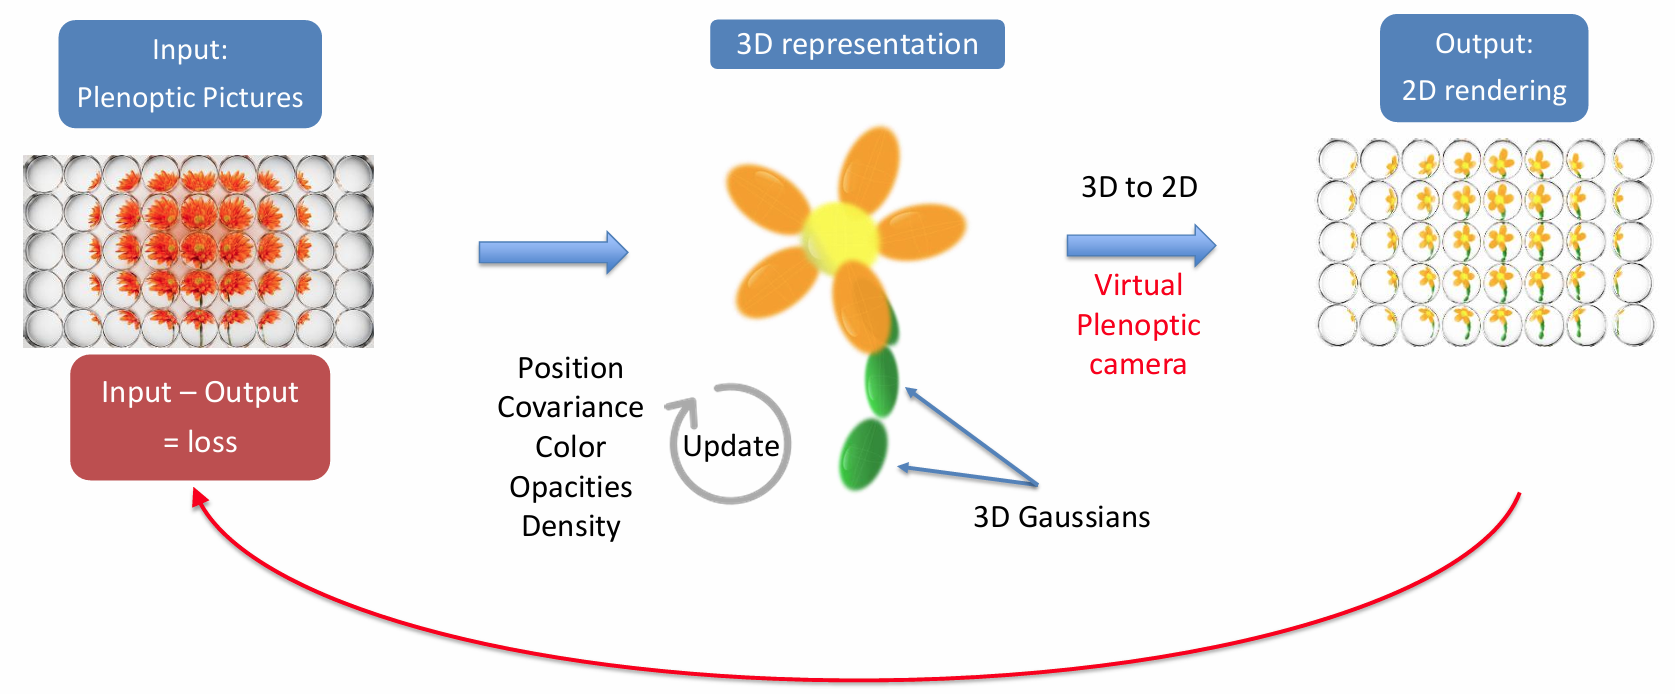
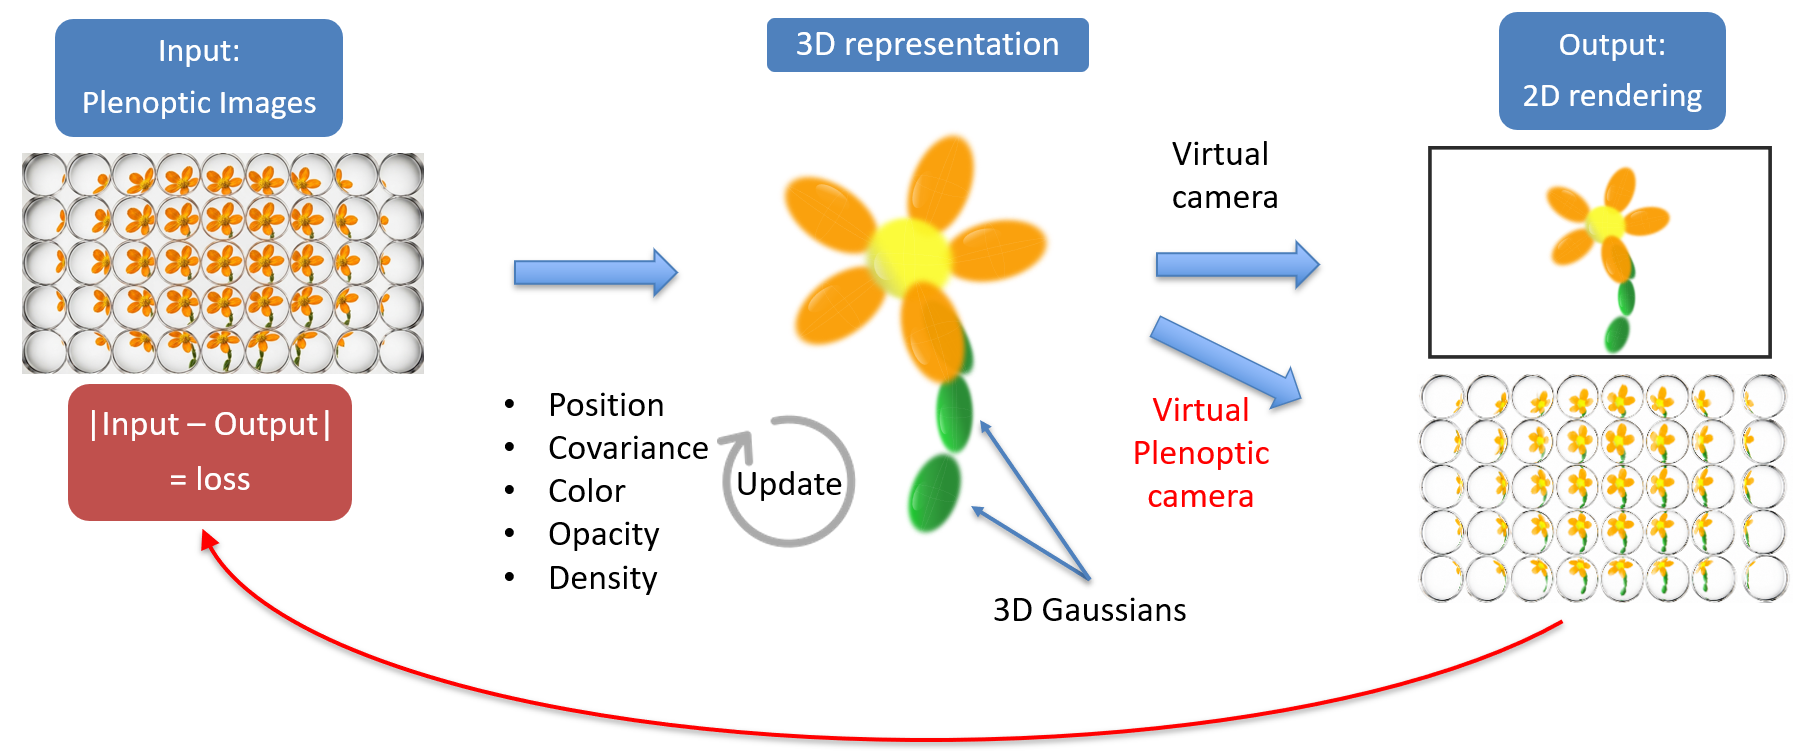
add missing parts and images

diff --git a/index.html b/index.html
@@ -420,9 +420,9 @@ notably with a single input image.
           <div class="column is-four-fifths">
             <p style="text-align: left; margin-bottom: 1cm;">
                 <br>
-                <b style="font-size: 15pt!important;">1. Plenoptic projection model</b>
+                <b style="font-size: 15pt!important;">Training Pipeline</b>
                 <br>
-                We derive a differentiable plenoptic projection model that maps 3D Gaussians through both the main lens and the micro-lens array.
+                We implemented a virtual plenoptic camera in the 3DGS framework to train directly on raw plenoptic images.
             </p>
             <img src="static/images/pipelineplenoGS.png" alt="PlenoGS pipeline" loading="lazy"/>
           </div>
@@ -435,7 +435,190 @@ notably with a single input image.
   <div class="hero-body">
     <div class="container">
         <h2 class="title is-3" style="text-align: center;">Implementation of Differentiable Rendering</h2>
-        
+        <div class="columns is-centered has-text-centered is-multiline">
+          <div class="column is-full">
+            <p style="text-align: left; margin-bottom: 1cm;">
+                <br>
+                <b style="font-size: 15pt!important;">1. Plenoptic projection model</b>
+                <br>
+                We derive a differentiable plenoptic projection model that maps 3D Gaussians through both the main lens and the micro-lens array.
+            </p>
+            <img src="static/images/projection_gaussian.png" alt="projection_model" loading="lazy"/>
+          </div>
+          <div class="column is-full">
+            <p style="text-align: left; margin-bottom: 1cm;">
+                <br>
+                <b style="font-size: 15pt!important;">2. Mapping Gaussians to Microlenses</b>
+                <br>
+                Microlenses array can contain thousands of microlenses, making it computationally expensive to compute the contribution of each Gaussian to every microlens.
+                <br>
+                To address this, we introduce a mapping strategy that efficiently determines in which microlenses each Gaussian is projected.
+                <br>
+                We find the closest microlens to the virtual Gaussian projected through the main lens, and then we consider a local neighborhood of microlenses around this closest microlens to compute the contributions of the Gaussian.
+              </p>
+            <img src="static/images/closest_microlens3D.png" alt="projection_model" loading="lazy"/>
+          </div>
+          <div class="column is-full">
+            <p style="text-align: left; margin-bottom: 1cm;">
+                <br>
+                <b style="font-size: 15pt!important;">3. Practical implementation</b>
+                <br>
+                Our method improves the reconstruction of dense scene structure and fine geometric details compared to standard pinhole-based baselines, especially when only a single plenoptic acquisition is available. The following examples illustrate how the raw plenoptic signal is exploited to recover sharper, more consistent novel views.
+            </p>
+            <div class="columns is-centered is-variable is-4">
+              <div class="column is-3">
+                <img src="static/images/scheme_hex.png" alt="PlenoGS vs Gaussian Splatting result 1" loading="lazy" style="width: 100%; height: auto; border-radius: 8px;"/>
+              </div>
+              <div class="column is-3">
+                <img src="static/images/hex_r2.png" alt="PlenoGS vs novel view synthesis result 2" loading="lazy" style="width: 100%; height: auto; border-radius: 8px;"/>
+              </div>
+              <div class="column is-3">
+                <img src="static/images/hexr3.png" alt="Existing novel view synthesis comparison 3" loading="lazy" style="width: 100%; height: auto; border-radius: 8px;"/>
+              </div>
+              <div class="column is-3">
+                <img src="static/images/hexr3masked.png" alt="Existing novel view synthesis comparison 4" loading="lazy" style="width: 100%; height: auto; border-radius: 8px;"/>
+              </div>
+            </div>
+          </div>
+        </div>
+    </div>
+  </div>
+</section>
+
+<section class="section">
+  <div class="container is-max-desktop">
+    <h2 class="title is-3" style="text-align: center;">Metrics</h2>
+    <div class="columns is-variable is-5 is-multiline">
+      <div class="column is-12-mobile is-6-desktop">
+        <div class="content" style="overflow-x: auto;">
+          <table class="table is-narrow is-fullwidth is-striped is-hoverable" style="margin: 0 auto;">
+            <caption style="caption-side: top; text-align: center; font-weight: 600; margin-bottom: 0.75rem;">
+              Training metrics for varying $R$ values on the Fujita dataset.
+            </caption>
+            <thead>
+              <tr>
+                <th><strong>R</strong></th>
+                <th><strong>PSNR</strong></th>
+                <th><strong>SSIM</strong></th>
+                <th><strong>LPIPS</strong></th>
+                <th><strong>#Gaussians</strong></th>
+                <th><strong>VRAM</strong></th>
+                <th><strong>Time</strong></th>
+              </tr>
+            </thead>
+            <tbody>
+              <tr>
+                <td>1</td>
+                <td>18.549</td>
+                <td>0.482</td>
+                <td>0.181</td>
+                <td>3,871,935</td>
+                <td>2.86 GB</td>
+                <td>5m 32s</td>
+              </tr>
+              <tr>
+                <td>2</td>
+                <td>20.214</td>
+                <td>0.565</td>
+                <td>0.153</td>
+                <td>630,822</td>
+                <td>1.86 GB</td>
+                <td>4m 50s</td>
+              </tr>
+              <tr>
+                <td>3</td>
+                <td>20.949</td>
+                <td>0.609</td>
+                <td>0.140</td>
+                <td>270,516</td>
+                <td>1.90 GB</td>
+                <td>4m 58s</td>
+              </tr>
+              <tr>
+                <td>4</td>
+                <td>21.014</td>
+                <td>0.612</td>
+                <td>0.141</td>
+                <td>160,407</td>
+                <td>1.97 GB</td>
+                <td>5m 14s</td>
+              </tr>
+              <tr>
+                <td><strong>5</strong></td>
+                <td><strong>21.022</strong></td>
+                <td><strong>0.620</strong></td>
+                <td><strong>0.137</strong></td>
+                <td>99,789</td>
+                <td>1.99 GB</td>
+                <td>5m 21s</td>
+              </tr>
+              <tr>
+                <td>6</td>
+                <td>20.945</td>
+                <td>0.602</td>
+                <td>0.144</td>
+                <td>65,878</td>
+                <td>2.01 GB</td>
+                <td>5m 24s</td>
+              </tr>
+            </tbody>
+          </table>
+        </div>
+      </div>
+
+      <div class="column is-12-mobile is-6-desktop">
+        <div class="content" style="overflow-x: auto;">
+          <table class="table is-narrow is-fullwidth is-striped is-hoverable" style="margin: 0 auto;">
+            <caption style="caption-side: top; text-align: center; font-weight: 600; margin-bottom: 0.75rem;">
+              Evaluation metrics on all trained datasets.
+            </caption>
+            <thead>
+              <tr>
+                <th><strong>Dataset</strong></th>
+                <th><strong>PSNR</strong></th>
+                <th><strong>SSIM</strong></th>
+                <th><strong>LPIPS</strong></th>
+                <th><strong>Time</strong></th>
+                <th><strong>#Gaussians</strong></th>
+              </tr>
+            </thead>
+            <tbody>
+              <tr>
+                <td>Fujita</td>
+                <td>21.17</td>
+                <td>0.61</td>
+                <td>0.14</td>
+                <td>5m 36s</td>
+                <td>49,555</td>
+              </tr>
+              <tr>
+                <td>Rabbit</td>
+                <td>23.95</td>
+                <td>0.65</td>
+                <td>0.14</td>
+                <td>10m 33s</td>
+                <td>55,591</td>
+              </tr>
+              <tr>
+                <td>Temple Boat (1k)</td>
+                <td>21.25</td>
+                <td>0.59</td>
+                <td>0.28</td>
+                <td>9m 48s</td>
+                <td>94,063</td>
+              </tr>
+              <tr>
+                <td>Cubes</td>
+                <td>14.49</td>
+                <td>0.162</td>
+                <td>0.407</td>
+                <td>5m 07s</td>
+                <td>38,573</td>
+              </tr>
+            </tbody>
+          </table>
+        </div>
+      </div>
     </div>
   </div>
 </section>
@@ -445,8 +628,26 @@ notably with a single input image.
   <div class="hero-body">
     <div class="container">
         <h2 class="title is-3" style="text-align: center;">Visual Comparison</h2>
-    
-      
+        <div class="columns is-centered has-text-centered is-multiline">
+          <div class="column is-full">
+            <p style="text-align: left; margin-bottom: 1cm;">
+                <br>
+                <b style="font-size: 15pt!important;">1. Comparison with existing pipeline</b>
+                <br>
+                We compare our plenoptic-aware training strategy against standard Gaussian Splatting baselines trained on conventional pinhole-style inputs.
+            </p>
+            <img src="static/images/plenogs_vs_GS.png" alt="comparison with Gaussian Splatting" loading="lazy" style="width: 80%; height: auto; border-radius: 8px;"/>
+          </div>
+          <div class="column is-full">
+            <p style="text-align: left; margin-bottom: 1cm;">
+                <br>
+                <b style="font-size: 15pt!important;">2. Comparison with existing plenoptic Novel View Synthesis</b>
+                <br>
+                We further evaluate the renderings against existing plenoptic novel view synthesis approaches to highlight the benefit of training directly on raw plenoptic images.
+            </p>
+            <img src="static/images/comp_existing.png" alt="comparison with existing methods" loading="lazy" style="width: 100%; height: auto; border-radius: 8px;"/>
+          </div>
+        </div>
     </div>
   </div>
 </section>
